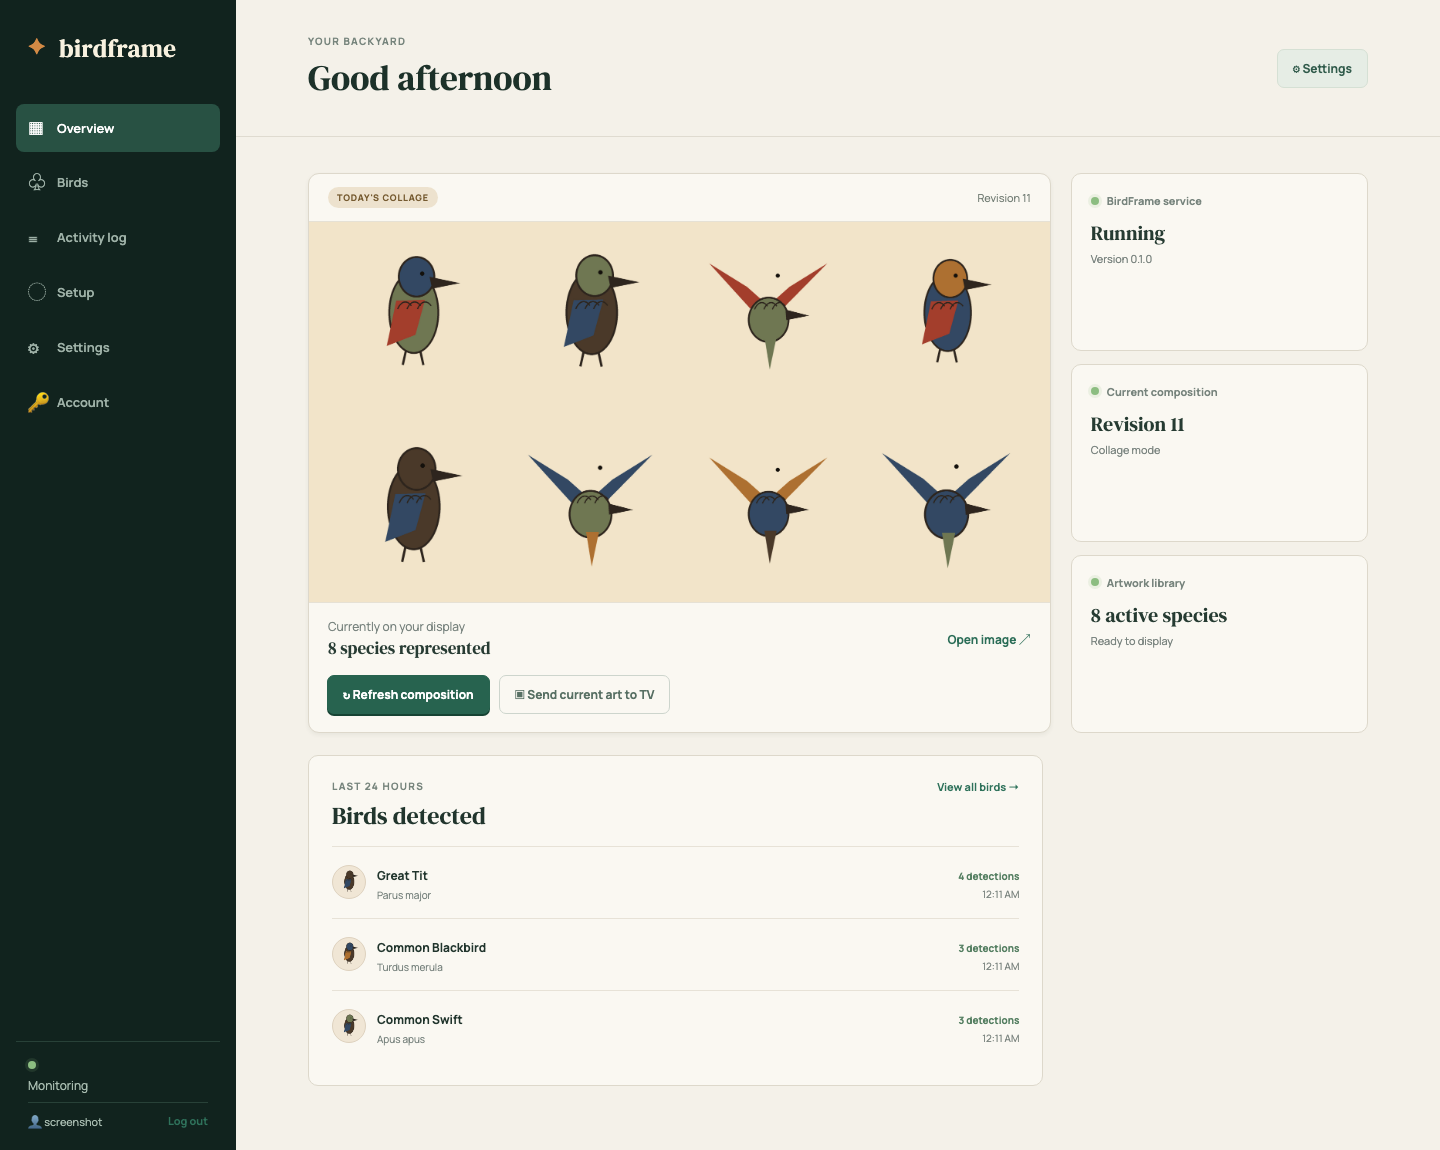
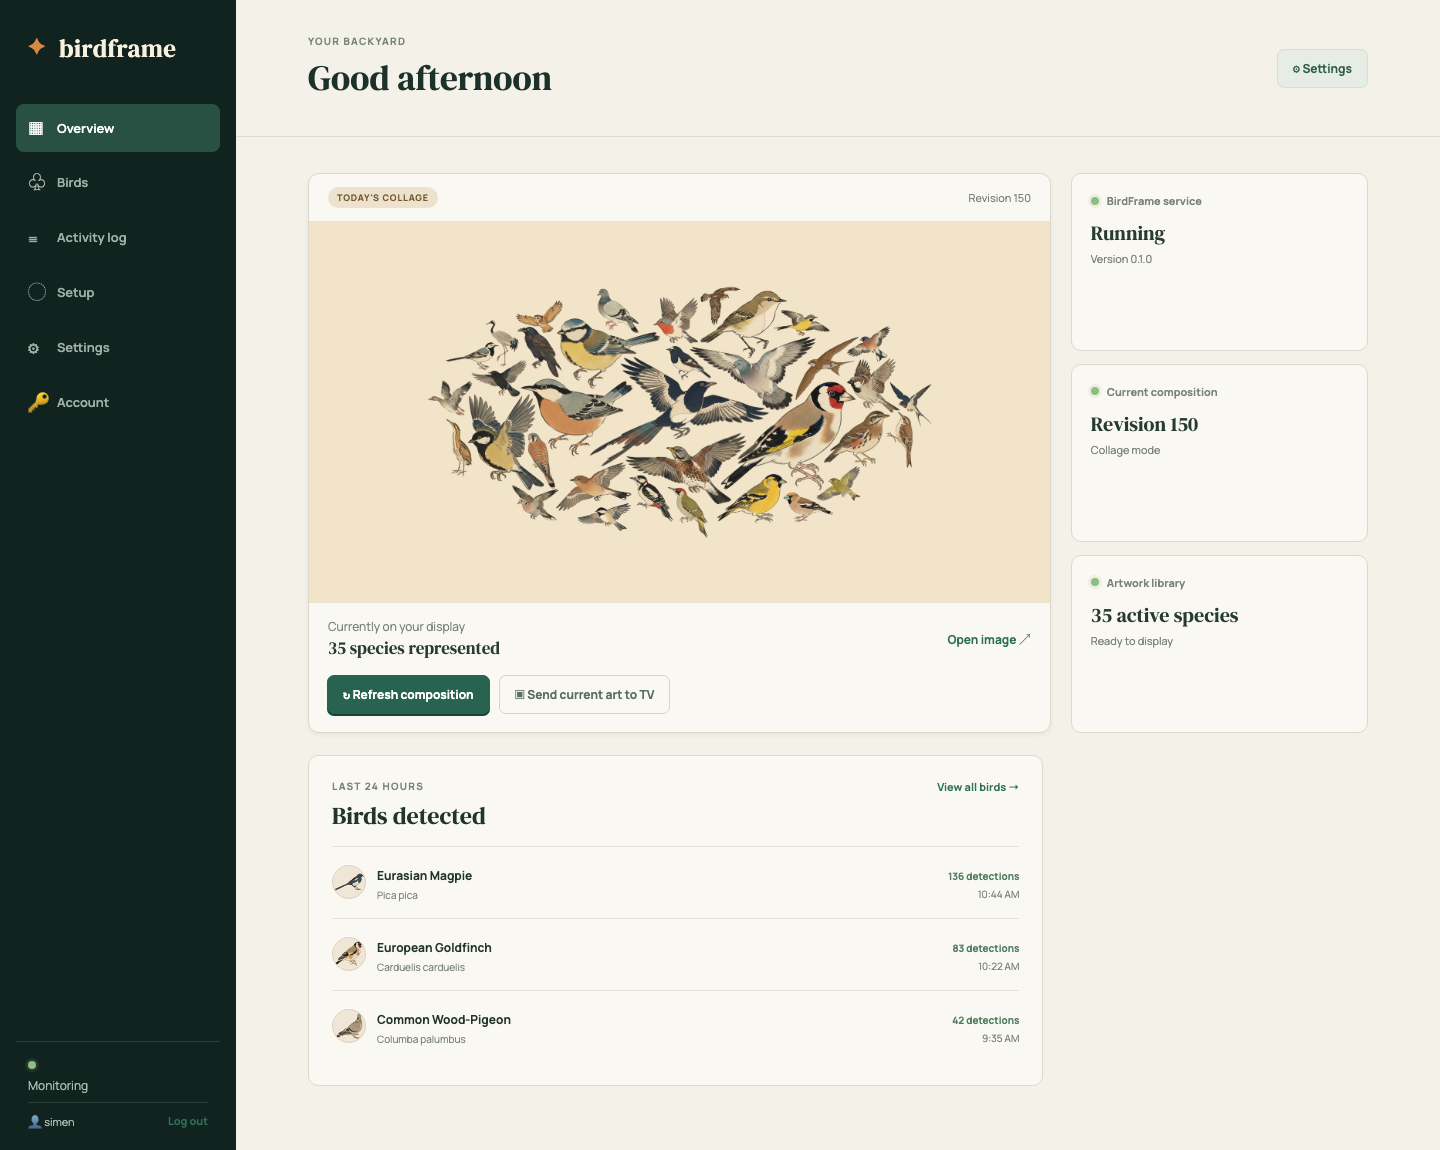
Refresh README screenshots and showcase all five artwork styles
New top section shows the five artwork styles (Living collage, Avian
Visitors original, Field plate, Latest visitor, Field journal) rendered
at higher resolution, and the app screenshots are recaptured from the
live instance including the setup Artwork step with its preview picker.

diff --git a/README.md b/README.md
@@ -20,31 +20,34 @@ AvianVisitors code or artwork; see
 [THIRD_PARTY_NOTICES.md](THIRD_PARTY_NOTICES.md) for attribution details,
 including the bundled OFL fonts (Caveat and Libre Baskerville).
 
-## Four ways to see your backyard
+## Artwork styles
 
-| Living collage | Field plate |
-| --- | --- |
-| ![Living collage](frontend/public/layouts/collage.jpg) | ![Field plate](frontend/public/layouts/field-plate.jpg) |
-| Latest visitor | Field journal |
-| ![Latest visitor](frontend/public/layouts/latest.jpg) | ![Field journal](frontend/public/layouts/journal.jpg) |
+BirdFrame can draw your backyard in five ways — pick one in the setup guide's
+Artwork step.
 
-Pick a layout in Settings or the setup guide. The Field journal is the
-quietest of the four: a longhand date, a three-column grid of the day's
-species, and each bird's count written in handwriting at its lower right.
+| Living collage | Avian Visitors original | Field plate |
+| --- | --- | --- |
+| ![Living collage](docs/screenshots/styles/collage.jpg) | ![Avian Visitors original layout](docs/screenshots/styles/exact.jpg) | ![Horizontal field plate](docs/screenshots/styles/field-plate.jpg) |
+| Latest visitor | Field journal | |
+| ![Latest visitor](docs/screenshots/styles/latest.jpg) | ![Field journal](docs/screenshots/styles/journal.jpg) | |
 
-## Screenshots
+The Field journal is the quietest of the five: a longhand date, a three-column
+grid of the day's species, and each bird's count written in handwriting at its
+lower right.
+
+## The app
 
 ![The BirdFrame overview shows the current collage and recent visitors.](docs/screenshots/overview.png)
 
-| Birds — one row per species, with artwork status and one-click generation | Settings — artwork, asset packs, and the display API |
+| Birds — one row per species, with artwork status and one-click generation | Settings — artwork generation and the display API |
 | --- | --- |
-| ![The Birds pane lists detected species and which ones still need artwork.](docs/screenshots/birds.png) | ![Settings covers OpenRouter artwork, asset packs, and the display API.](docs/screenshots/settings.png) |
+| ![The Birds pane lists detected species and which ones still need artwork.](docs/screenshots/birds.png) | ![Settings covers artwork generation and the display API.](docs/screenshots/settings.png) |
 
 The [setup guide](docs/setup.md) walks through location, detection source, TV,
-artwork style, and display rhythm — and stays available after first run for
-quick adjustments.
+artwork style, asset packs, and display rhythm — and stays available after
+first run for quick adjustments.
 
-![The setup guide walks through location, detection source, TV, artwork, and display.](docs/screenshots/setup.png)
+![The setup guide's Artwork step shows a preview for every layout.](docs/screenshots/setup-artwork.png)
 
 ## Quick start
 
